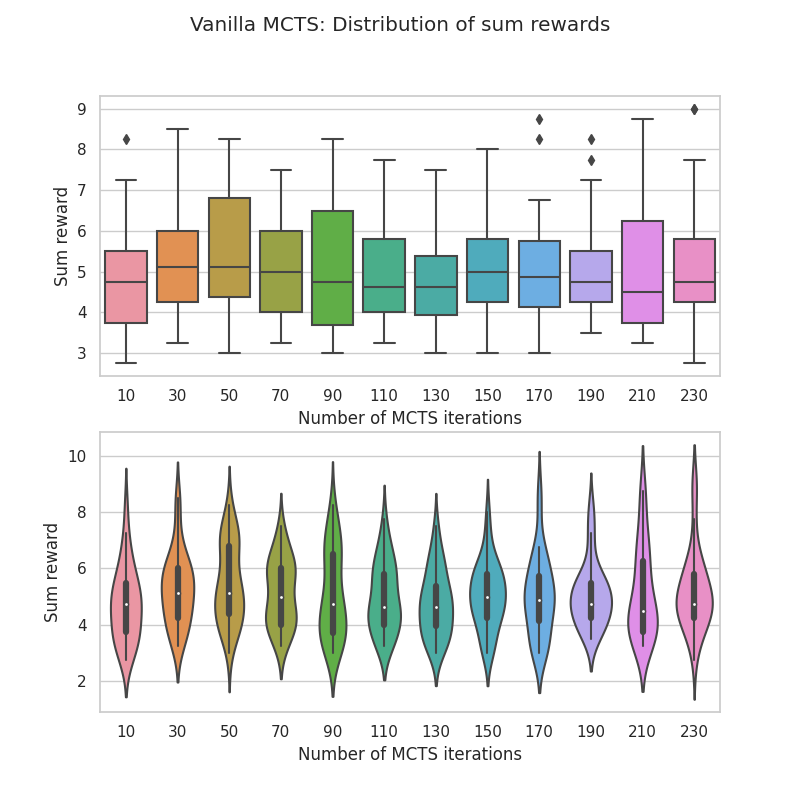
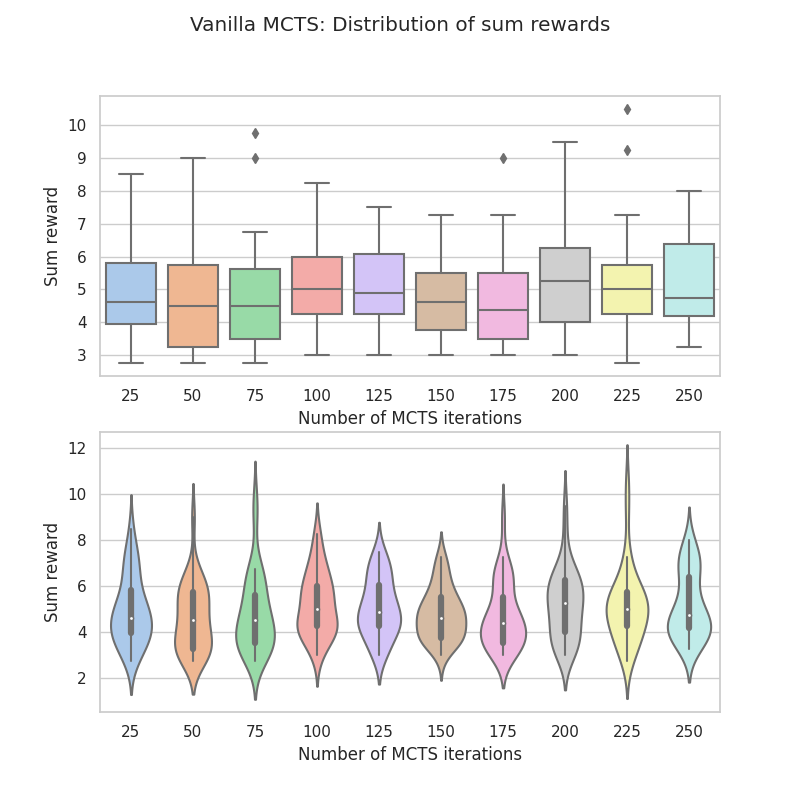
adapt plots + prepare for next run

diff --git a/Raw MCTS/Plotting scripts/PlotPerformance_sum_reward.py b/Raw MCTS/Plotting scripts/PlotPerformance_sum_reward.py
@@ -4,35 +4,43 @@ from matplotlib import pyplot as plt
 import pandas as pd
 import seaborn as sns
 
-root_performance_logs = "../logs/performance"
+
 
 def main():
 
     sns.set_theme(style="whitegrid", palette="pastel")
     
-    num_mcts_iterations = range(10, 250, 20)
+    num_mcts_iterations = range(25, 275, 25)
 
     dfs = []
-    for i in num_mcts_iterations:
 
-        x = np.load(f"{root_performance_logs}/sum_rewards_{i}.npy")
+    for candy_buff_height in range(4,7):
 
-        data = {"Number of MCTS iterations": i, 
-                    "Sum reward": x}
+        root_performance_logs = f"../logs/candy_buff_height_{candy_buff_height}/performance/"
 
-        df = pd.DataFrame(data)
-        
-        dfs.append(df)
+        for num_mcts_iteration in num_mcts_iterations:
+
+            x = np.load(f"{root_performance_logs}/sum_rewards_{num_mcts_iteration}.npy")
+
+            data = {"Number of MCTS iterations": num_mcts_iteration, 
+                    "Candy buff height": candy_buff_height,
+                        "Sum reward": x}
+
+            df = pd.DataFrame(data)
+            
+            dfs.append(df)
 
     dfs = pd.concat(dfs)
     
-    fig, axes = plt.subplots(2, 1, figsize=(8,8))
+    # print(dfs)
+    # return 
+    #fig, axes = plt.subplots(2, 1, figsize=(8,8))
 
-    sns.boxplot(data=dfs, x="Number of MCTS iterations", y="Sum reward", ax=axes[0])
-    sns.violinplot(data=dfs, x="Number of MCTS iterations", y="Sum reward", ax=axes[1])
+    sns.violinplot(data=dfs, x="Number of MCTS iterations", y="Sum reward", hue="Candy buff height")
+    #sns.violinplot(data=dfs, x="Number of MCTS iterations", y="Sum reward", ax=axes[1])
 
-    fig.suptitle('Vanilla MCTS: Distribution of sum rewards')
-    plt.savefig("./Plots/Vanilla_MCTS_performance_sum_reward.png")
+    #fig.suptitle('Vanilla MCTS: Distribution of sum rewards')
+    #plt.savefig("./Plots/Vanilla_MCTS_performance_sum_reward.png")
     plt.show()
 
 if __name__ == '__main__':
